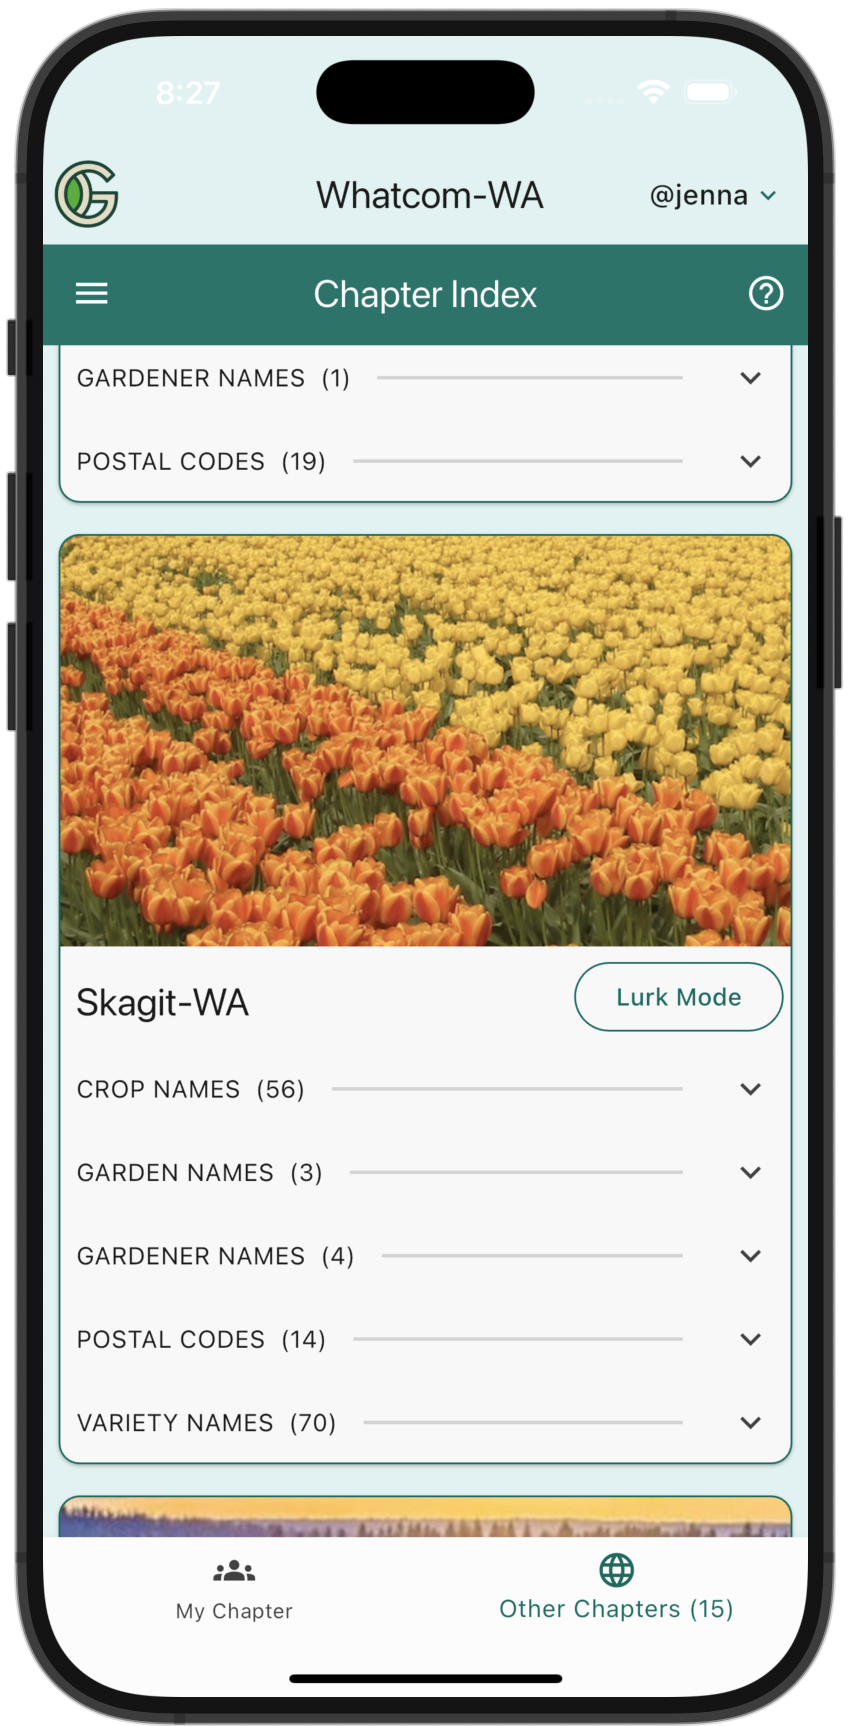
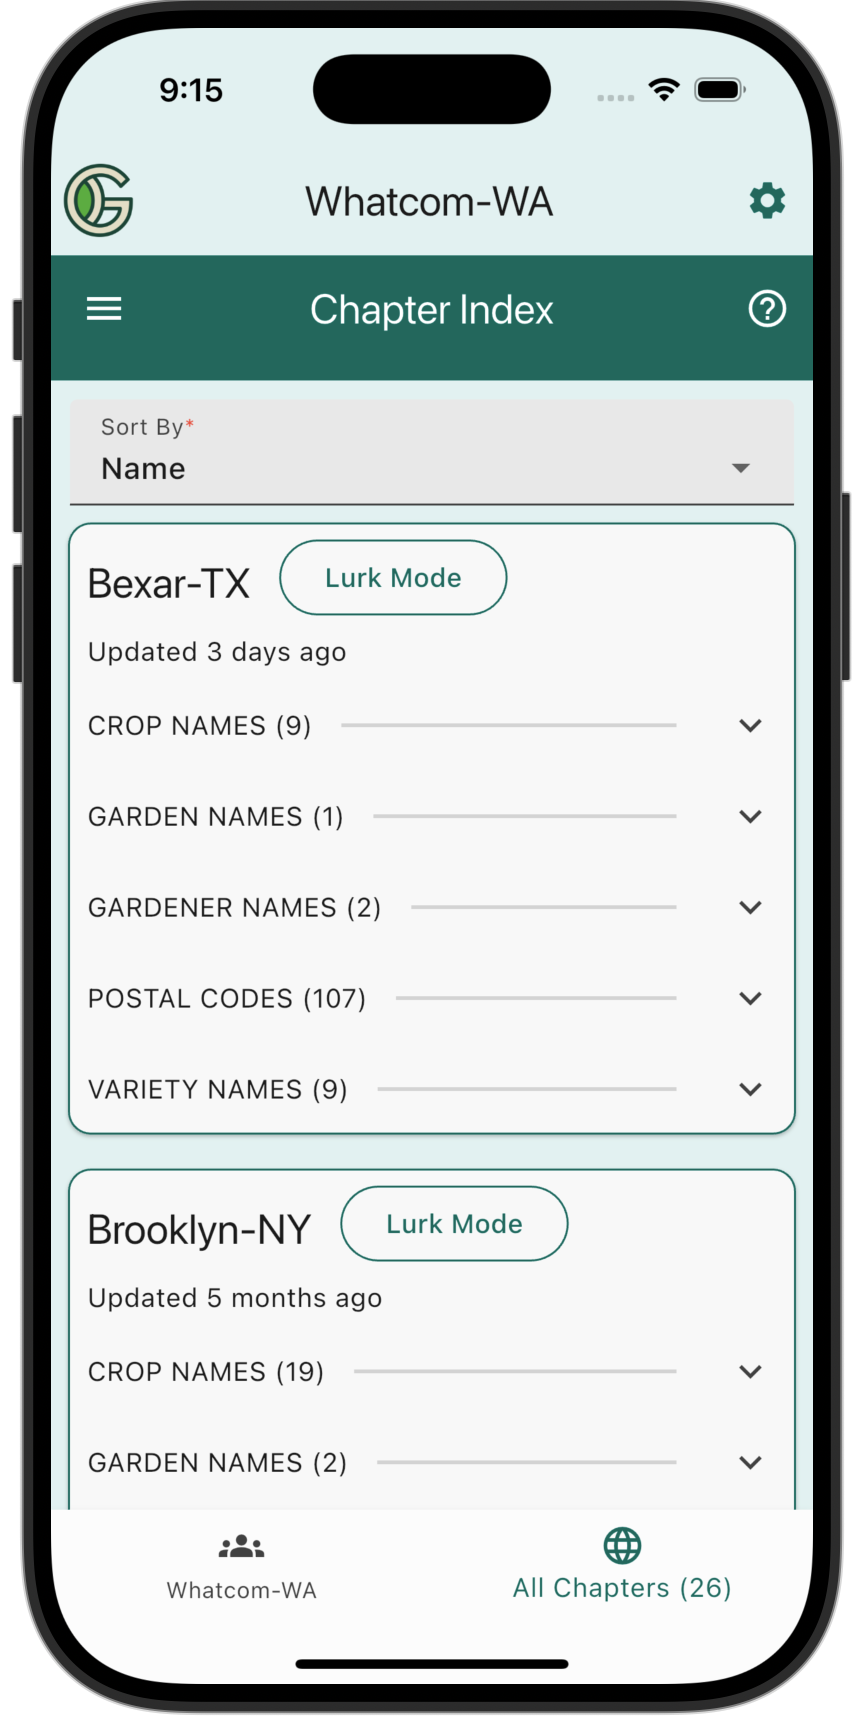
Update index screens and add family page

diff --git a/sidebars.js b/sidebars.js
@@ -78,6 +78,7 @@ const sidebars = {
         'user-guide/private-messages',
         'user-guide/crops',
         'user-guide/varieties',
+        'user-guide/families',
         'user-guide/chapters',
         'user-guide/gardeners',
         'user-guide/retail-value',

diff --git a/docs/user-guide/families.md b/docs/user-guide/families.md
@@ -1,0 +1,49 @@
+---
+sidebar_position: 1
+---
+
+# Families
+
+:::tip About families
+:::
+
+There is a single Family database that is shared by all GeoGardenClub chapters.
+
+## Family Index
+
+You can see all Families by going to the Drawer and tapping "Families" to display the Family Index screen:
+
+<img width="300" src="/img/user-guide/family-index-screen.png"/>
+
+By default, the Family Index Screen displays only the Families that have been used in at least one Planting in your Chapter.
+
+To display all the currently defined Families, tap "All Familie" at the bottom of the screen:
+
+<img width="300" src="/img/user-guide/family-index-screen-all-families.png"/>
+
+
+Use the pulldown menu to quickly access a specific Family rather than scrolling. 
+
+## Create a Family
+
+:::warning Please capitalize families
+When adding a new Family, please capitalize each word for consistency with other Family names. 
+
+Note that there is an "Other" family that you can use instead of defining a new Family.
+:::
+
+Tap the "+ Family" button to bring up the Create Family screen:
+
+<img width="300" src="/img/user-guide/family-create.png"/>
+
+* **Family Common Name**: The common name, such as "Mint".
+* **Family Formal Name**: The latin name, such as "Lamiaceae".
+* **Family Examples**: Examples of crops in that family, such as "basil, mint, rosemary, sage".
+
+## Update/Delete Families
+
+:::warning Gardeners can't update or delete Families
+If a Family needs to be updated or deleted, please contact an admin by emailing info@geogardenclub.com.
+:::
+
+

diff --git a/docs/user-guide/chapters.md b/docs/user-guide/chapters.md
@@ -16,7 +16,7 @@ Here is an example Chapter Index screen:
 
 <img width="300" src="/img/user-guide/chapter-index-screen.png"/>
 
-By default, this screen shows the "My Chapter" tab, which provides a summary of information about your own chapter: the crops used, the gardens defined, the number of gardeners, and so forth.
+By default, this screen shows your current chapter's tab, which provides a summary of information about your own chapter: the crops used, the gardens defined, the number of gardeners, and so forth.
 
 Note that each section can be expanded to show more detail. For example:
 
@@ -25,9 +25,9 @@ Note that each section can be expanded to show more detail. For example:
 You can tap on a Chip to see more details about that item.
 
 
-## Other Chapters
+## All Chapters
 
-Tapping the "Other Chapters" tab enables you to see information about all other GGC Chapters:
+Tapping the "All Chapters" tab enables you to see information about all other GGC Chapters:
 
 <img width="300" src="/img/user-guide/chapter-other-chapters.png"/>
 

diff --git a/docs/user-guide/varieties.md b/docs/user-guide/varieties.md
@@ -11,9 +11,16 @@ There is a single Variety database that is shared by all GeoGardenClub chapters.
 
 ## Variety Index
 
-To see all defined Varieties, go to the Drawer and select "Varieties" to display the Variety Index screen:
+You can see all Varieties by going to the Drawer and tapping "Varieties" to display the Variety Index screen:
 
 <img width="300" src="/img/user-guide/variety-index-screen.png"/>
+
+By default, the Variety Index Screen displays only the Varieties that have been used in at least one Planting in your Chapter.
+
+To display all the currently defined Varieties, tap "All Varieties" at the bottom of the screen:
+
+<img width="300" src="/img/user-guide/variety-index-screen-all-varieties.png"/>
+
 
 Use the pulldown menu to quickly access a specific Variety rather than scrolling. The Sort By dropdown allows you to order the list by various criteria (Number of Gardens, Number of Gardeners, etc).
 

diff --git a/docs/user-guide/crops.md b/docs/user-guide/crops.md
@@ -11,9 +11,17 @@ There is a single Crop database that is shared by all GeoGardenClub chapters.
 
 ## Crop Index
 
-You can see all the currently defined Crops by going to the Drawer and selecting "Crops" to display the Crop Index screen:
+You can see all Crops by going to the Drawer and tapping "Crops" to display the Crop Index screen:
 
 <img width="300" src="/img/user-guide/crop-index-screen.png"/> 
+
+By default, the Crop Index Screen displays only the Crops that have been used in at least
+one Planting in your Chapter. 
+
+To display all of the currently defined Crops, tap "All Crops" at the bottom of the screen:
+
+<img width="300" src="/img/user-guide/crop-index-screen-all-crops.png"/> 
+
 
 Use the pulldown menu to quickly access a specific Crop rather than scrolling. The Sort By dropdown allows you to order the list by various criteria (Number of Varieties, Number of Gardens, etc).
 

diff --git a/docs/user-guide/home/team.md b/docs/user-guide/home/team.md
@@ -68,7 +68,7 @@ Jessie Beck is a home gardener in Bellingham, WA. She advises the GeoGardenClub 
 
 ## Interns
 
-### Amelia Larson (Summer, 2026)
+### Amelia Larsen (Summer, 2026)
 
 <img alt="picture" className="team-img" width="150px" src="/img/team/amelia-larson.jpg"/>
 
